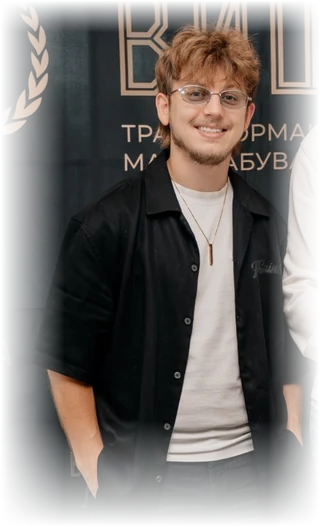
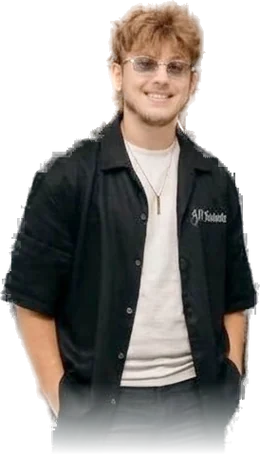
/pre-reg-form: Саша без фону, більший заголовок
Фото з банера вирізано моделлю людської сегментації і кадровано
по стегна з плавним згасанням низу — у повний зріст фігура з'їдала
весь перший екран і відсувала анкету.

diff --git a/public/prereg.css b/public/prereg.css
@@ -8,18 +8,21 @@
 .prereg .topbar{margin-bottom:10px}
 
 /* ===== Шапка офера: текст ліворуч, фото праворуч ===== */
-.prereg .hero-main{min-height:0;padding:0;display:grid;grid-template-columns:1fr 114px;gap:6px;align-items:start}
+.prereg .hero-main{min-height:0;padding:0;display:grid;grid-template-columns:1fr 104px;gap:8px;align-items:start}
 .hero-txt{min-width:0}
-.prereg .qual{margin:0 0 10px;font-size:9.6px;line-height:1.4;font-weight:600;
-  letter-spacing:0.04em;text-transform:uppercase;color:#D5A77A}
-.prereg h1{font-size:clamp(20px,5.5vw,28px);line-height:1.06}
+.prereg .qual{margin:0 0 9px;font-size:10px;line-height:1.4;font-weight:600;
+  letter-spacing:0.03em;text-transform:uppercase;color:#D5A77A}
+.prereg h1{font-size:clamp(22px,6.4vw,26px);line-height:1.04;letter-spacing:-0.01em}
 .prereg h1 .ln{display:block}
 .prereg .lede{margin:10px 0 0;font-size:14.5px;line-height:1.35;color:#fff}
 
-.hero-pic{position:relative;margin:-6px -8px 0 0}
+/* Саша вирізаний із фону: під ним м'яке золоте світло і тінь біля ніг */
+.hero-pic{position:relative;margin:-6px -14px 0 0}
 .hero-pic img{display:block;width:100%;height:auto;position:relative;z-index:1}
-.hero-pic::before{content:"";position:absolute;left:-20%;right:-15%;top:0;bottom:-4%;
-  background:radial-gradient(closest-side,rgba(213,167,122,0.2) 0%,rgba(213,167,122,0) 100%)}
+.hero-pic::before{content:"";position:absolute;left:-28%;right:-18%;top:2%;bottom:6%;
+  background:radial-gradient(closest-side,rgba(213,167,122,0.22) 0%,rgba(213,167,122,0) 100%)}
+.hero-pic::after{content:"";position:absolute;left:4%;right:10%;bottom:-2%;height:22px;z-index:2;
+  background:radial-gradient(closest-side,rgba(0,0,0,0.55) 0%,rgba(0,0,0,0) 100%)}
 
 /* ===== Бонус: рамка, без металевої підкладки ===== */
 .offer{margin-top:4px}

diff --git a/public/pre-reg-form.html b/public/pre-reg-form.html
@@ -38,7 +38,7 @@
         <p class="lede" data-p18n="lede">Подготовь свой инфобизнес к рынку 2027 и сделай следующий запуск рекордным</p>
       </div>
       <div class="hero-pic" aria-hidden="true">
-        <img src="assets/img/sasha.webp" alt="" width="320" height="527">
+        <img src="assets/img/sasha.webp" alt="" width="260" height="455" decoding="async">
       </div>
     </div>
 
